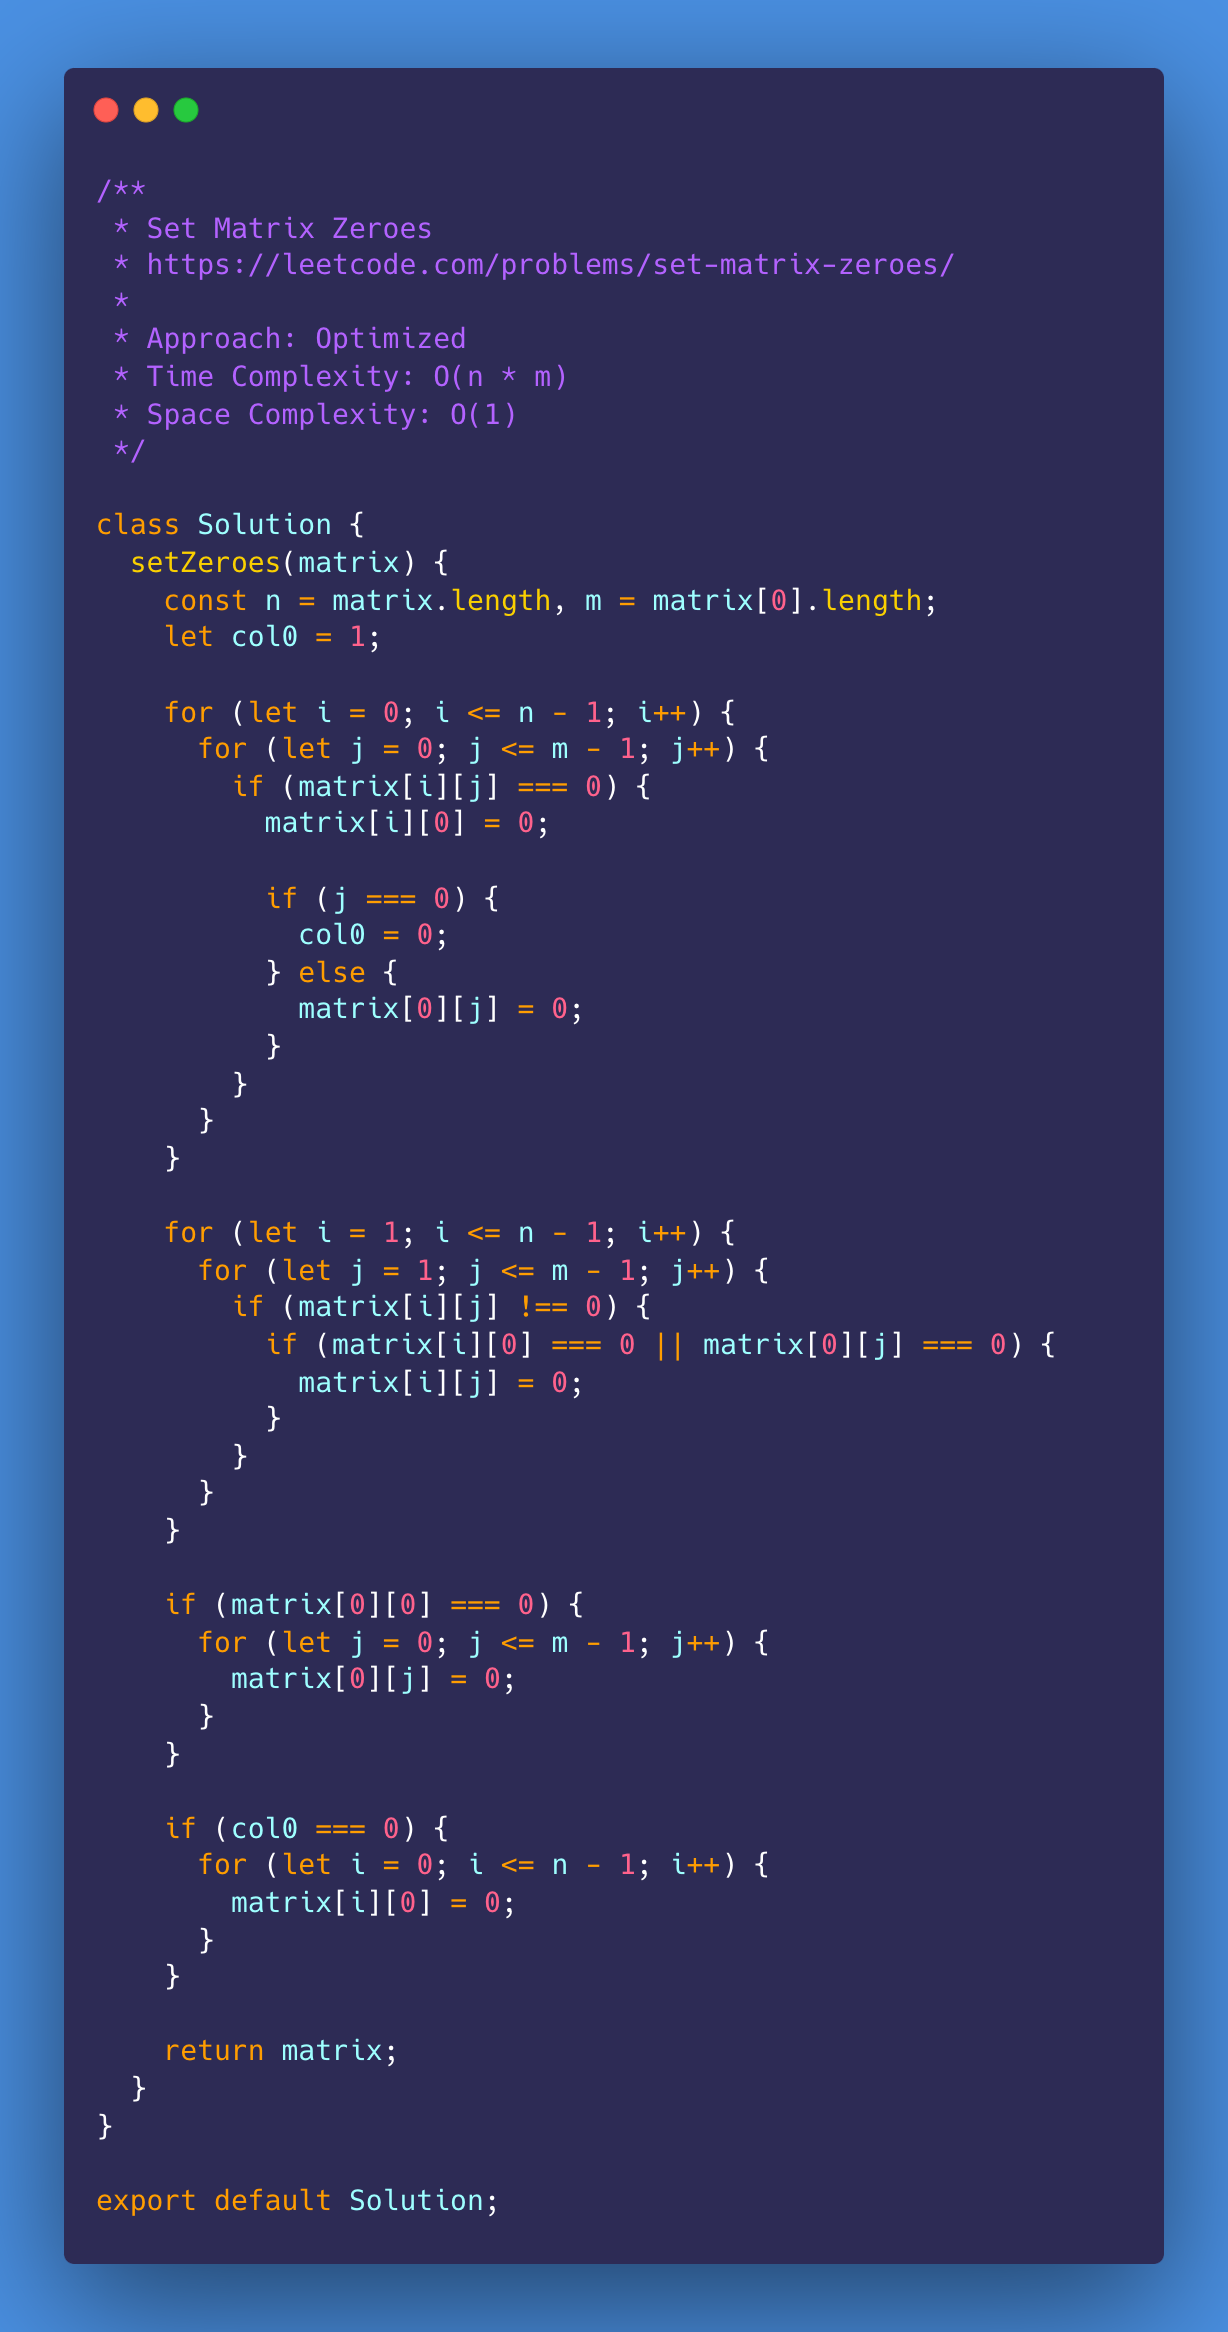
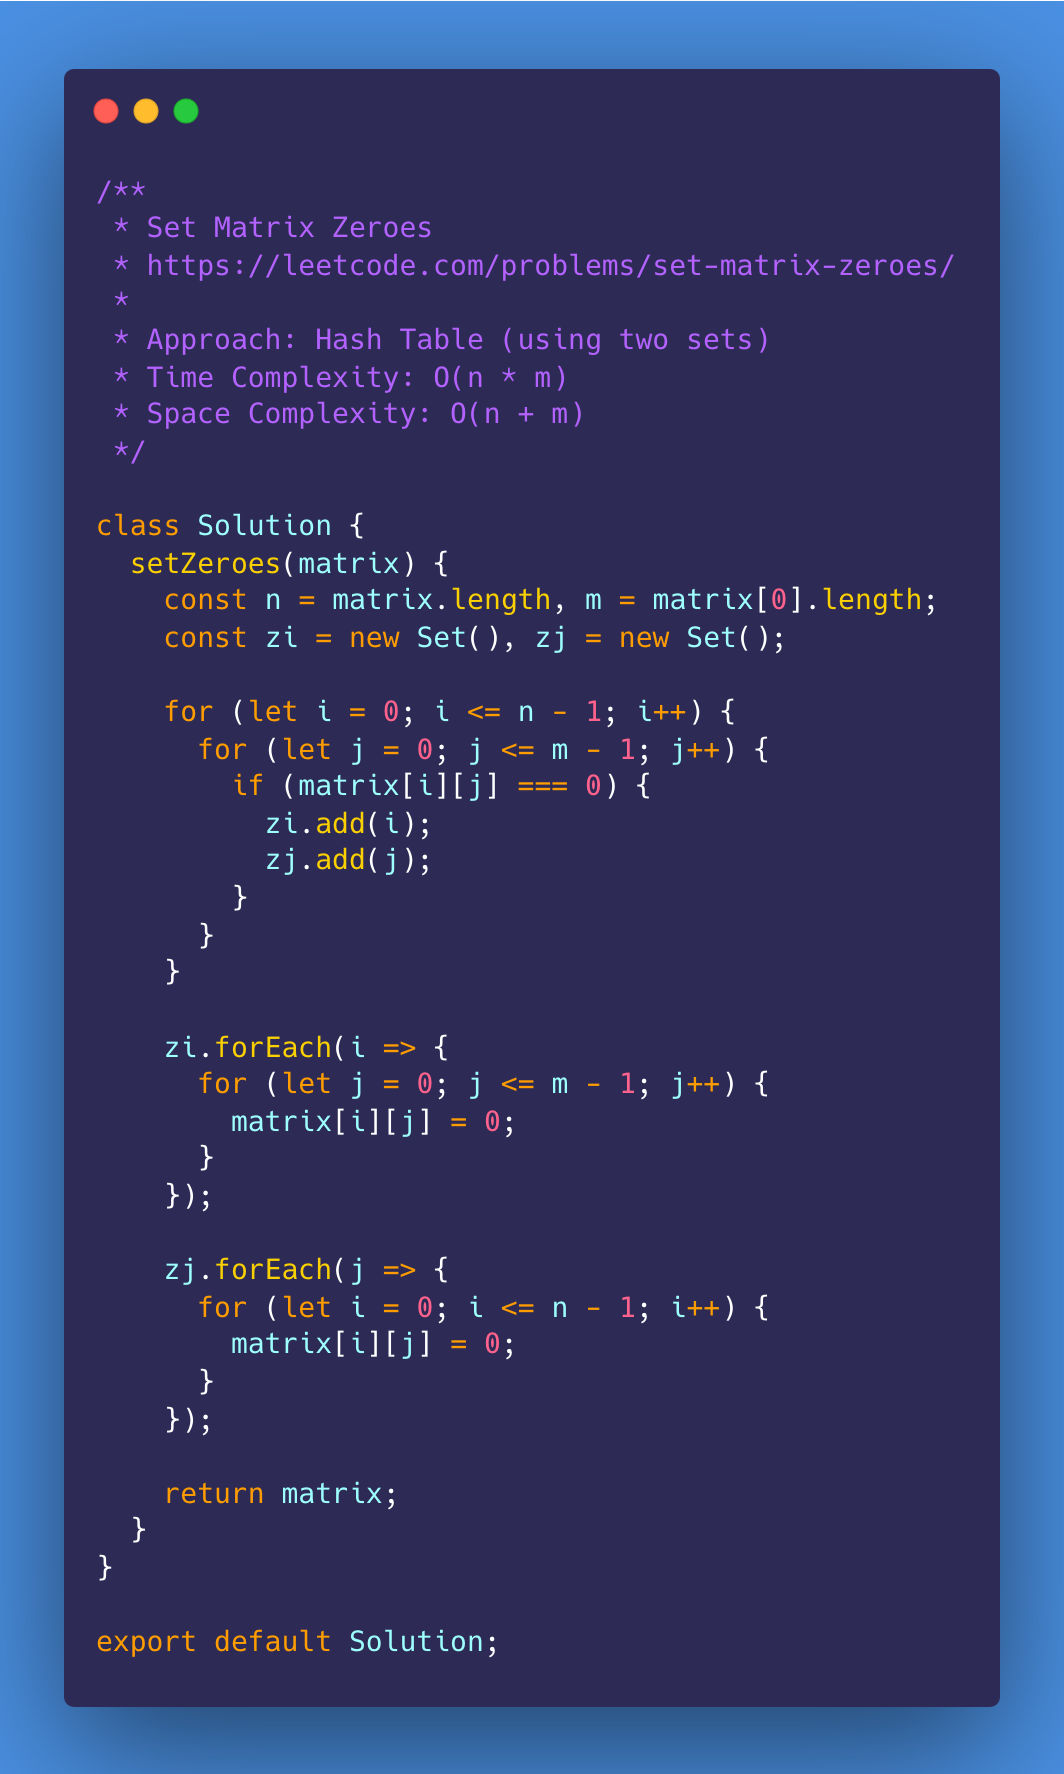
Set Matrix Zeroes updates

diff --git a/004-leetcode/001-set-matrix-zeroes/003-solutions/Solution.js b/004-leetcode/001-set-matrix-zeroes/003-solutions/Solution.js
@@ -1,0 +1,40 @@
+/**
+ * Set Matrix Zeroes
+ * https://leetcode.com/problems/set-matrix-zeroes/
+ *
+ * Approach: Hash Table (using two sets)
+ * Time Complexity: O(n * m)
+ * Space Complexity: O(n + m)
+ */
+
+class Solution {
+  setZeroes(matrix) {
+    const n = matrix.length, m = matrix[0].length;
+    const zi = new Set(), zj = new Set();
+
+    for (let i = 0; i <= n - 1; i++) {
+      for (let j = 0; j <= m - 1; j++) {
+        if (matrix[i][j] === 0) {
+          zi.add(i);
+          zj.add(j);
+        }
+      }
+    }
+
+    zi.forEach(i => {
+      for (let j = 0; j <= m - 1; j++) {
+        matrix[i][j] = 0;
+      }
+    });
+
+    zj.forEach(j => {
+      for (let i = 0; i <= n - 1; i++) {
+        matrix[i][j] = 0;
+      }
+    });
+
+    return matrix;
+  }
+}
+
+export default Solution;

diff --git a/004-leetcode/001-set-matrix-zeroes/004-solution/Debug.js b/004-leetcode/001-set-matrix-zeroes/004-solution/Debug.js
@@ -1,0 +1,10 @@
+import Solution from "./Solution.js";
+
+const solution = new Solution();
+const result = solution.setZeroes([
+  [1, 1, 1, 1],
+  [1, 0, 1, 1],
+  [1, 1, 0, 1],
+  [0, 1, 1, 1],
+]);
+console.log(result); // [ [ 0, 0, 0, 1 ], [ 0, 0, 0, 0 ], [ 0, 0, 0, 0 ], [ 0, 0, 0, 0 ] ]

diff --git a/004-leetcode/001-set-matrix-zeroes/003-solutions/__tests__/Solution.test.js b/004-leetcode/001-set-matrix-zeroes/003-solutions/__tests__/Solution.test.js
@@ -1,6 +1,6 @@
 import Solution from "../Solution";
 import { sharedTests } from "../../__shared__/shared.test";
 
-describe('setZeroes (hash-table-row-col-arrays)', () => {
+describe('setZeroes (hash-table-two-sets)', () => {
   sharedTests(() => new Solution());
 });

diff --git a/004-leetcode/001-set-matrix-zeroes/004-solution/__tests__/Solution.test.js b/004-leetcode/001-set-matrix-zeroes/004-solution/__tests__/Solution.test.js
@@ -1,6 +1,6 @@
 import Solution from "../Solution";
 import { sharedTests } from "../../__shared__/shared.test";
 
-describe('setZeroes (optimized)', () => {
+describe('setZeroes (constant-space)', () => {
   sharedTests(() => new Solution());
 });

diff --git a/004-leetcode/001-set-matrix-zeroes/004-solution/Solution.js b/004-leetcode/001-set-matrix-zeroes/004-solution/Solution.js
@@ -2,7 +2,7 @@
  * Set Matrix Zeroes
  * https://leetcode.com/problems/set-matrix-zeroes/
  * 
- * Approach: Optimized
+ * Approach: Constant Space
  * Time Complexity: O(n * m)
  * Space Complexity: O(1)
  */

diff --git a/004-leetcode/001-set-matrix-zeroes/README.md b/004-leetcode/001-set-matrix-zeroes/README.md
@@ -6,7 +6,7 @@
 - [Solution](#solution)
   - [Brute Force](#brute-force)
   - [Hash Table (using row and col arrays)](#hash-table-using-row-and-col-arrays)
-  - [Optimized](#optimized)
+  - [Constant Space](#constant-space)
 - [Test Results](#test-results)
 
 ## Problem
@@ -23,9 +23,13 @@
 
 ![Set Matrix Zeroes](./002-solution.png)
 
-### Optimized
+### Hash Table (using two sets)
 
 ![Set Matrix Zeroes](./003-solution.png)
+
+### Constant Space
+
+![Set Matrix Zeroes](./004-solution.png)
 
 ## Test Results
 
